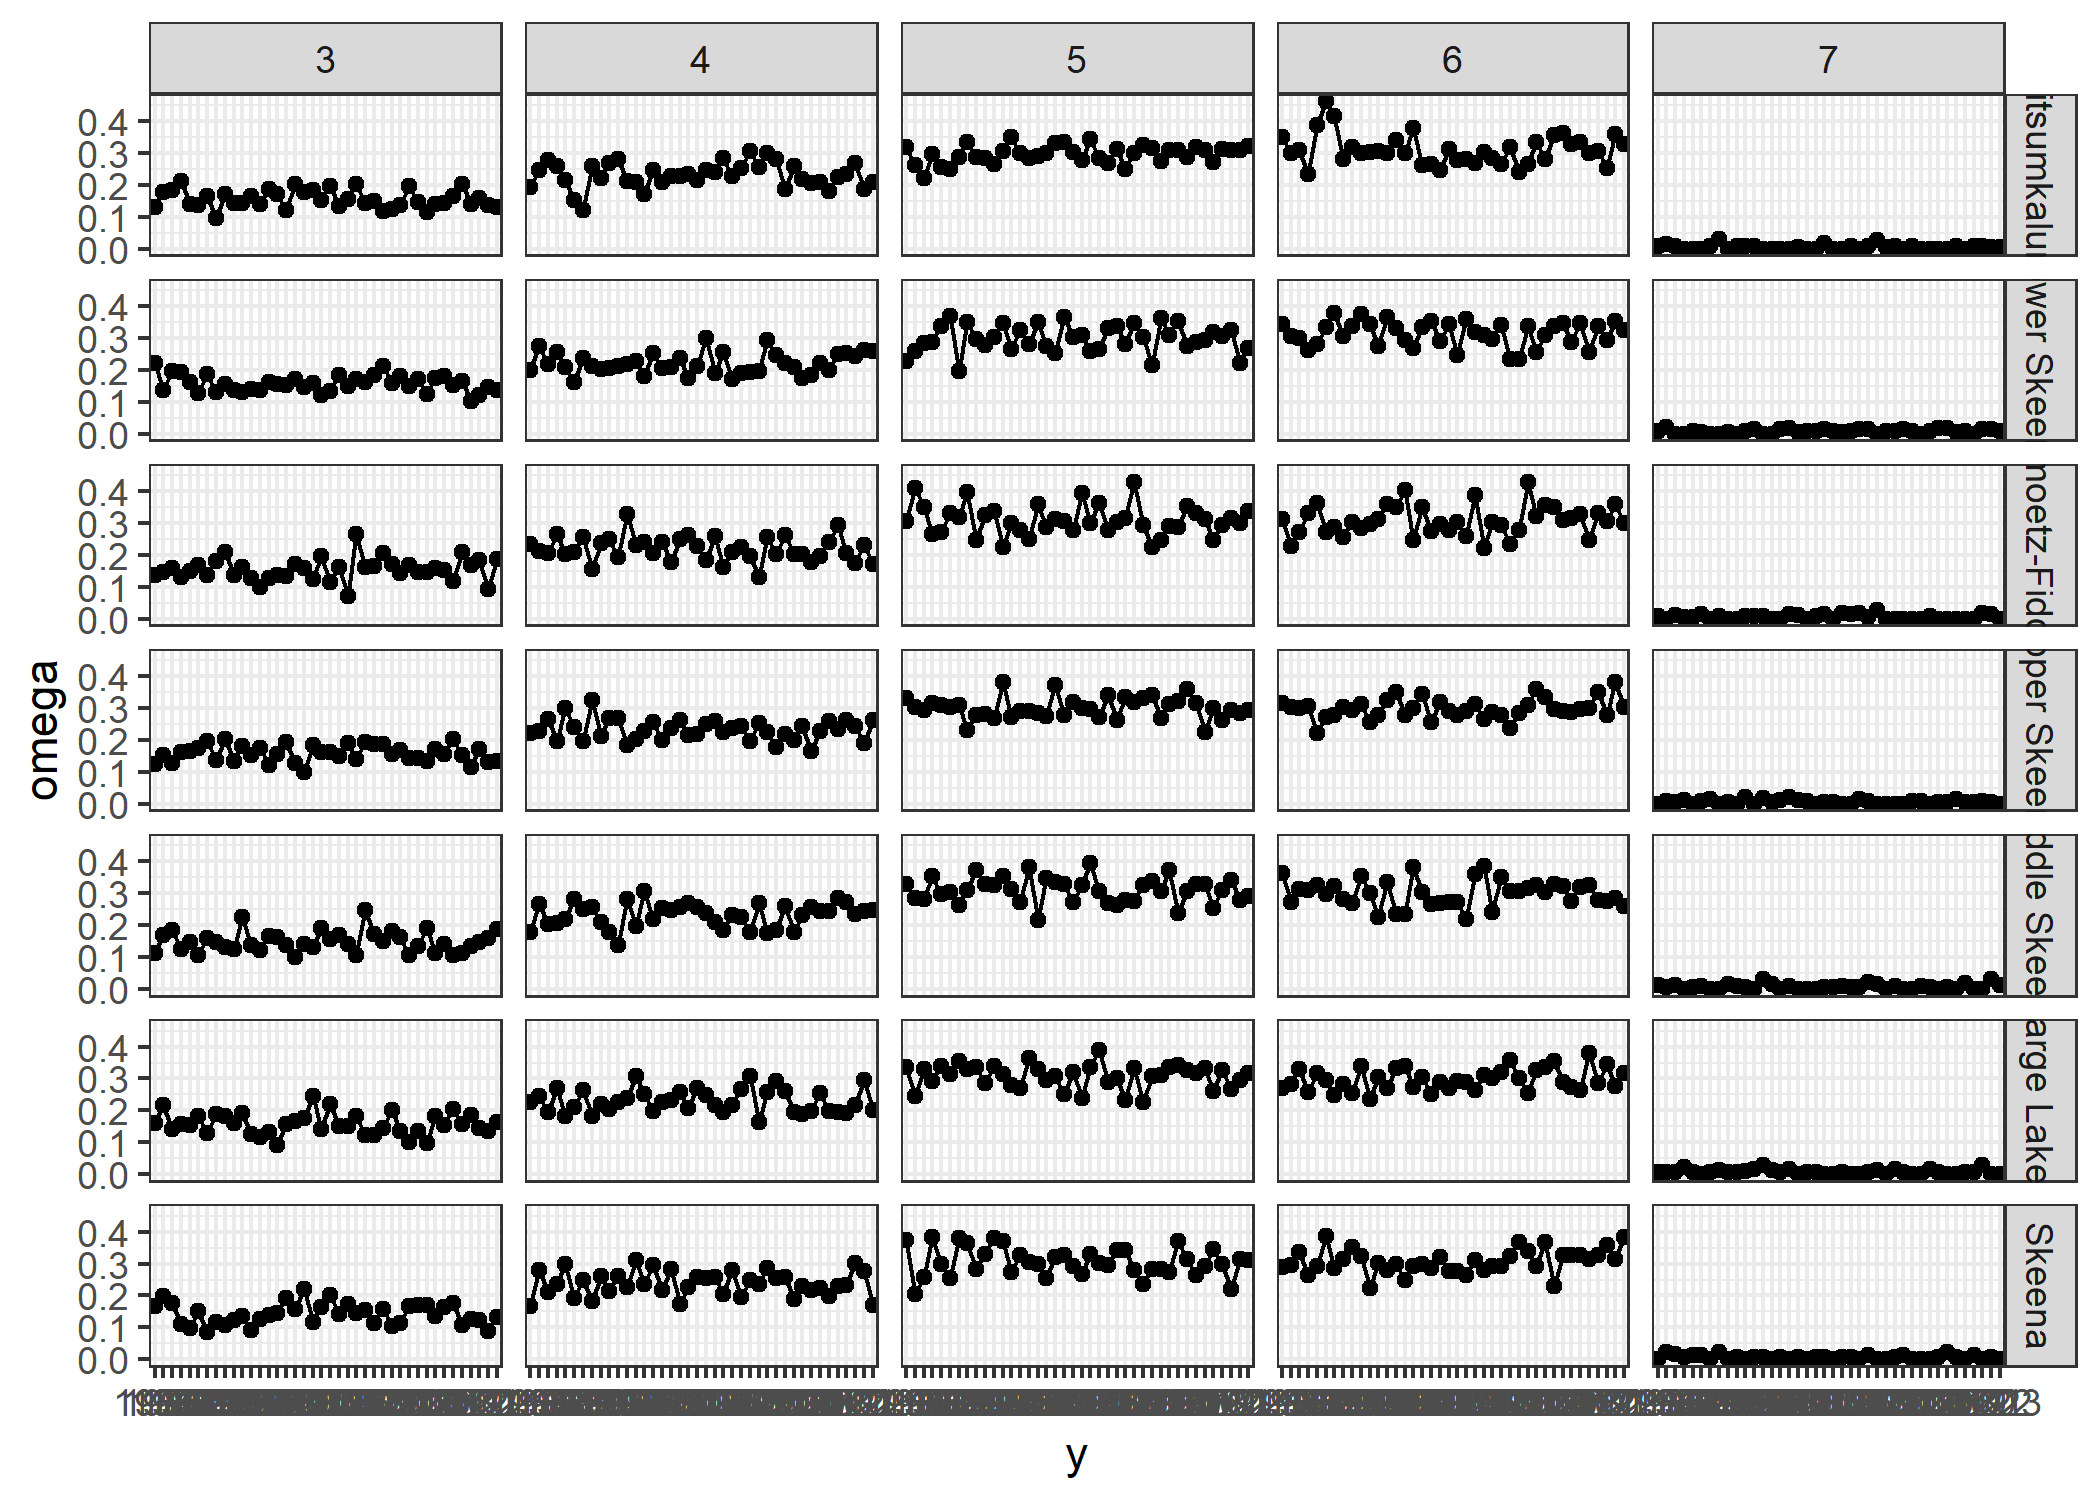
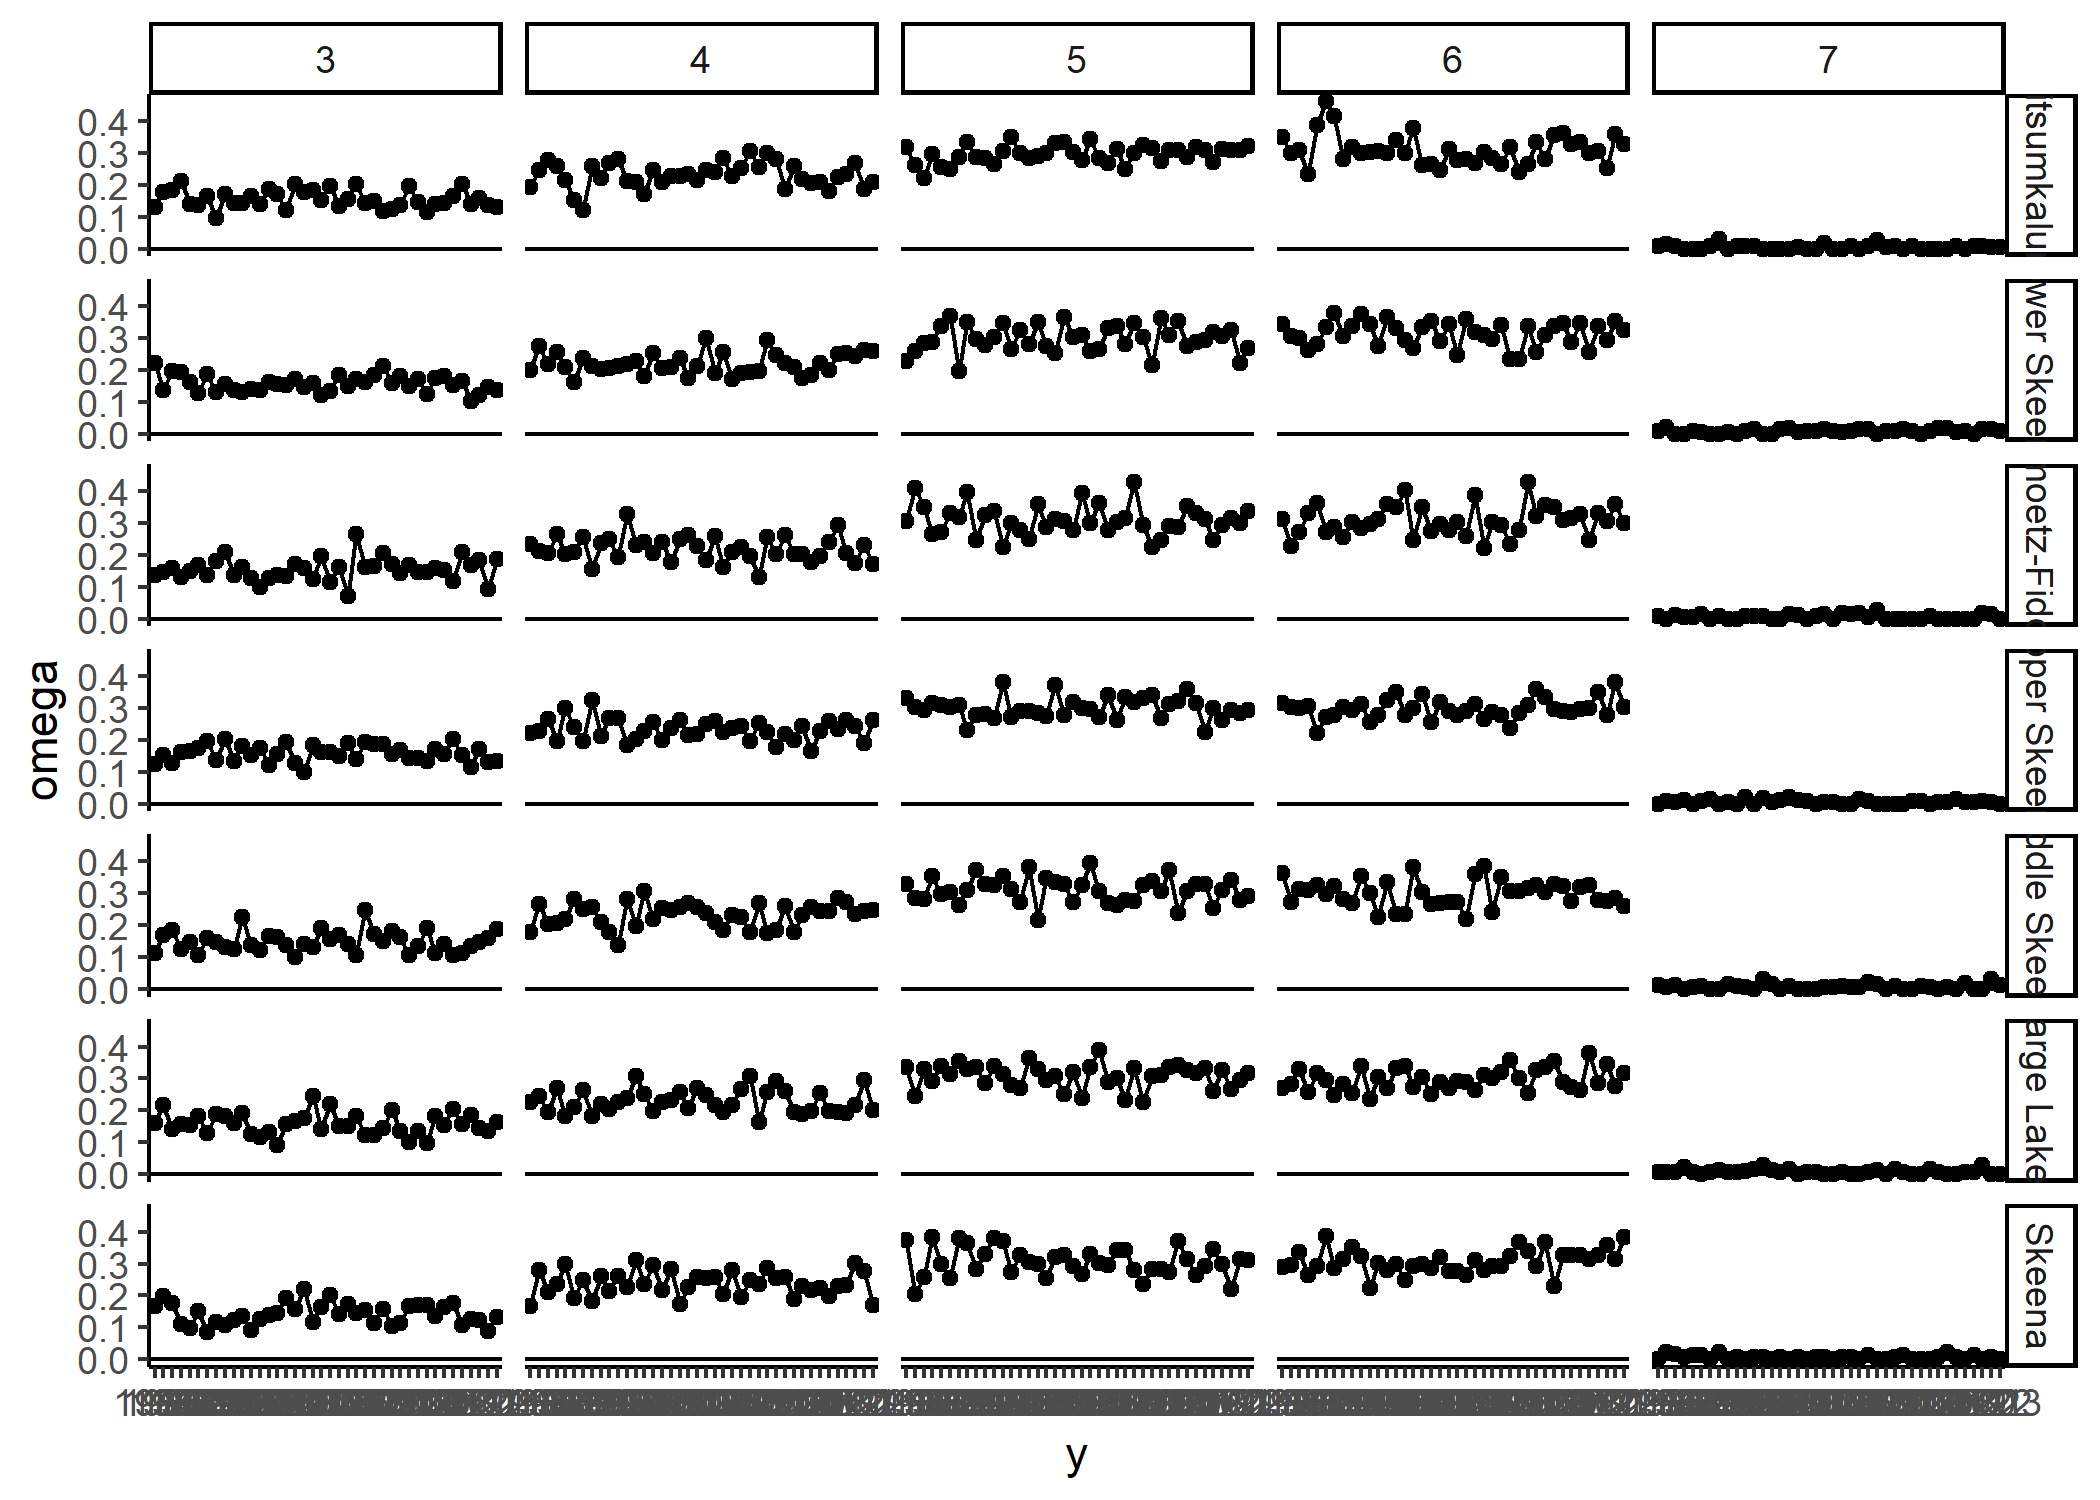
Update readme

diff --git a/README.md b/README.md
@@ -209,8 +209,9 @@ do <- omega$df
 ggplot( do, aes(y = omega, x = y, group = i)) +
   geom_point() + 
   geom_line() + 
+  geom_hline(aes(yintercept=0)) + 
   facet_grid( i ~ a) + 
-  theme_bw()
+  theme_classic()
 ```
 
 <img src="man/figures/README-example_omega-1.png" width="100%" />
